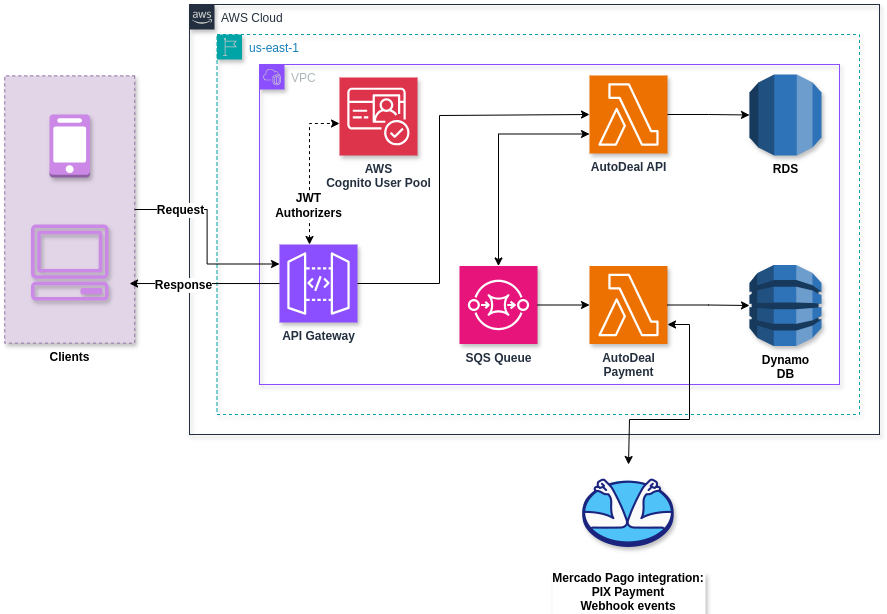
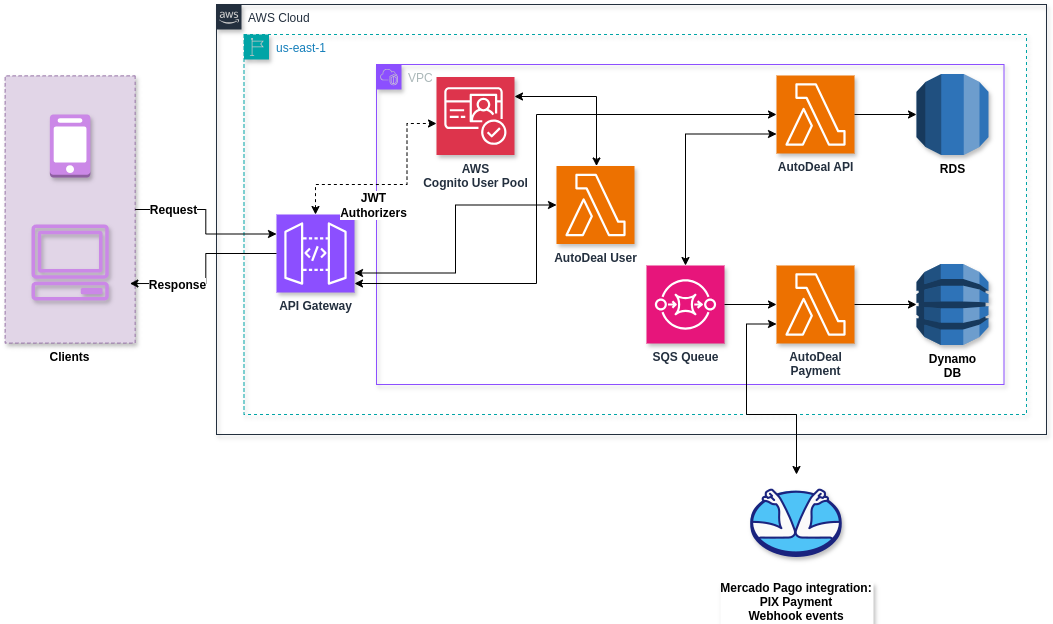
chore: documentation updates

Changed region(s): [[0.0, 0.0, 1.0, 0.7117], [0.6392, 0.7736, 0.8219, 0.8974], [0.6088, 0.9283, 0.8523, 1.0]]

diff --git a/README.md b/README.md
@@ -1,14 +1,15 @@
-[![Deploy CD](https://github.com/auto-deal-cars/auto-deal-api/actions/workflows/deploy.yml/badge.svg)](https://github.com/auto-deal-cars/auto-deal-api/actions/workflows/deploy.yml)
+[![Deploy CD](https://github.com/auto-deal-cars/auto-deal-user/actions/workflows/deploy.yml/badge.svg)](https://github.com/auto-deal-cars/auto-deal-user/actions/workflows/deploy.yml)
 
-# AutoDeal API - Uma solução AWS Lambda com Docker
+# AutoDeal Payment - Uma solução AWS Lambda com Docker
 
 Aluno:
 
 * Pedro Henrique de Marins da Silva - RM348617
 
 ## Lista de Repositórios:
-  - [Repositório AutoDeal API](https://github.com/auto-deal-cars/auto-deal-api)
-  - [Repositório AutoDeal Payment](https://github.com/auto-deal-cars/auto-deal-payment)
+  - [Repositório AutoDeal API](https://github.com/auto-deal-cars/auto-deal-api-p5)
+  - [Repositório AutoDeal Payment](https://github.com/auto-deal-cars/auto-deal-payment-p5)
+  - [Repositório AutoDeal User](https://github.com/auto-deal-cars/auto-deal-user)
 
 ## O Projeto
 
@@ -25,6 +26,9 @@ negócio:
 Este projeto foi gerado com o template `aws-python-docker` do [Serverless framework](https://www.serverless.com/).
 
 Para mais detalhes, por favor, referir para a [documentação](https://www.serverless.com/framework/docs/providers/aws/).
+
+## Evidência do projeto
+Vídeo com evidências do projeto. [Link para o vídeo]
 
 ## Stack do Projeto
 
@@ -101,7 +105,7 @@ A pipeline para deploy do código foi configurada utilizando o GitHub Actions, a
 - **Run Alembic migrations**: Executa as migrações do banco de dados utilizando `alembic upgrade head`.
 - **Set up QEMU**: Configura o QEMU para emulação da arquitetura ARM para realizar o build da imagem Docker, usando a ação `docker/setup-qemu-action@v3`.
 - **Deploy if tests pass**: Se os testes passarem, instala o Serverless Framework e plugins necessários, e realiza o deploy da aplicação utilizando `sls deploy`.
-- **Clean up .env file**: Remove o arquivo `.env` após o deploy ser realizado com sucesso.
+- **Clean up env.json file**: Remove o arquivo `env.json` após o deploy ser realizado com sucesso.
 
 > **Sobre a utilização do QEMU**: O Github Actions não suporta a emulação da arquitetura ARM nativamente, porém, o QEMU permite a emulação da arquitetura ARM para construir a imagem Docker.
 
@@ -112,6 +116,8 @@ A pipeline para deploy do código foi configurada utilizando o GitHub Actions, a
 - **Pull Requests**: Código só pode ser mergeado para a branch `main` através de pull requests.
 - **CI/CD**: A aplicação possui CI/CD através do GitHub Actions, onde o código é buildado e deployado para a AWS Lambda através do Serverless Framework.
 - **Documentação das APIs**: A documentação do projeto foi feita utilizando o Swagger, e está disponível na raiz do projeto, no arquivo `openapi.yml`. Para rodar localmente, utilize o comando `swagger-ui-express --config openapi.yml --port 8080`.
+
+> **Sobre o Swagger**: É recomendado utilizar a documentação do Swagger após o primeiro deploy, pois é necessário configurar o endpoint do API Gateway no Swagger. Os endpoints estão documentados e todas as os possíveis models de request e response estão documentados no Swagger.
 
 ## Arquitetura
 ![Arquitetura da aplicação](./documentation/images/image-4.png)
@@ -125,6 +131,16 @@ A abordagem de arquitetura hexagonal também pode ser utilizada para a criação
   - Condutores: (ou atores primários): Podem ser definidos como atores que iniciam a interação. Por exemplo, um condutor pode ser um controller que recebe um input de um usuário e redireciona a aplicação utilizando uma Port(interface).
   - Conduzidos: (também conhecido como atores secundários): São parte da camada de infrasctructure da aplicação. Podem ser utilizados para adicionar funcionalidades para o domínio da aplicação. Exemplos: Banco de dados, APIs externas.
 
+Também é possível dizer que a aplicação foi implementada seguindo o conceito de Clean Architecture, onde a aplicação é dividida em camadas, e cada camada possui sua responsabilidade. Alguns detalhes sobre os padrões:
+
+- **Application Services**: Camada de serviços da aplicação, responsável por conter a lógica de negócios da aplicação.
+- **Domain**: Camada de domínio da aplicação, responsável por conter as entidades da aplicação.
+- **Infrastructure**: Camada de infraestrutura da aplicação, responsável por conter as portas e adaptadores da aplicação.
+- **Controllers**: Camada de controllers da aplicação, responsável por conter os controllers da aplicação.
+- **Adapters**: Camada de adaptadores da aplicação, responsável por conter os adaptadores da aplicação.
+- **Repositories**: Camada de repositórios da aplicação, responsável pelas operações de banco de dados.
+- **Decorators**: Decorators são utilizados para adicionar funcionalidades aos controllers, neste caso, para adicionar a lógica responsável por validar exceptions e retornar as respostas corretas para o usuário.
+
 ### Padrão SAGA
 ![Padrao SAGA](./documentation/images/image-5.png)
 
@@ -133,6 +149,7 @@ Adicionamente, o padrão SAGA utilizado para essa aplicação é o padrão Coreo
 Para cobrir falhas, a aplicação possui a seguinte estratégia:
   - **Compensação**: Eventos compensatórios para reverter vendas, caso ocorra algum erro.
   - **Chave de idempotência**: Identificador único para garantir que uma transação seja executada apenas uma vez.
+  - ** SQS Queues utilizando padrão FIFO**: Garante a ordem de execução das mensagens, evitando problemas de concorrência. Também garante que uma mensagem seja processada apenas uma vez.
 
 ### Modelo de dados (RDS)
 ![Modelo de dados da aplicação](./documentation/images/image-3.png)
@@ -142,8 +159,9 @@ O modelo de dados do serviço API é um banco de dados relacional, utilizando o 
 - **VehicleBrand**: Tabela que armazena as marcas de veículos.
 - **SoldVehicle**: Tabela que armazena os veículos vendidos.
 - **Enum: StatusEnum**: Tabela que armazena os status dos veículos vendidos. Possíveis valores:
-  - **draft**: Venda inicializada.
-  - **sold**: Venda concluída.
+  - **draft**: Venda inicializada. Veículos com este status são removidos da lista de veículos disponíveis à venda.
+  - **awaiting_pickup**: Aguardando retirada do veículo que já foi vendido.
+  - **sold**: Venda concluída. Não é possível reverter a venda pois o veículo já foi retirado.
 
 #### Estrutura das tabelas
 ##### Vehicle
@@ -182,6 +200,7 @@ O modelo de dados do serviço API é um banco de dados relacional, utilizando o 
 | Valor        | Descrição                        |
 |--------------|----------------------------------|
 | draft        | Venda inicializada               |
+| awaiting_pickup        | Aguardando retirada do veículo que já foi vendido |
 | sold         | Venda concluída                  |
 
 ### Modelo de dados (DynamoDB)
@@ -200,6 +219,11 @@ Abaixo, está a estrutura do modelo de dados do serviço Payment.
 
 ## Rotas
 
+# AutoDeal User
+**POST /user**: cadastro de usuário.
+**POST /login**: login de usuário.
+**DELETE /user**: deletar usuário.
+
 ## AutoDeal API
 
 - **POST /payment**: Criação de um pagamento.
@@ -211,11 +235,71 @@ Abaixo, está a estrutura do modelo de dados do serviço Payment.
 - **GET /vehicles**: Listagem de veículos disponíveis à venda.
 - **GET /vehicles/sold**: Listagem de veículos vendidos.
 - **POST /vehicle/{id}/initialize-sale**: Inicialização da venda de um veículo.
+- **DELETE /vehicle/{id}**: Cancelamento da venda de um veículo que não foi pago.
+- **POST /vehicle/{id}/confirm-pickup**: Confirmação de retirada de um veículo que já foi vendido.
 
 ## AutoDeal Payment
 
 - **POST /webhook**: Recebe notificação de webhook.
 - **GET /payment**: Busca os pagamentos realizados/pendentes.
+
+## Segurança
+
+Estes microsserviços são protegidos boas práticas de segurança, como por exemplo:
+- **Autenticação e autorização**: Protegidos por meio de autenticação e autorização utilizando o JWT Authorizer.
+- **CORS**: Protegidos por meio de CORS para evitar ataques de Cross-Site Request Forgery (CSRF).
+- **Rate Limiting**: Protegidos por meio de rate limiting para evitar ataques de força bruta.
+- **Scopes**: Protegidos por meio de scopes para evitar ataques de Cross-Site Request Forgery (CSRF).
+- **HTTPS**: Protegidos por meio de HTTPS para evitar ataques de man-in-the-middle.
+- **IAM Roles**: Protegidos por meio de IAM Roles. Eles são utilizados principalmente para proteger o serviço de Payment, que utiliza o DynamoDB como banco de dados.
+
+Abaixo, mais detalhes sobre a segurança de cada serviço:
+
+### Dados dos usuários
+
+Os dados dos usuários são armazenados no Cognito User Pool, que é um serviço da AWS que oferece autenticação e autorização para aplicações web. É utilizada a solução de custom attributes para armazenar os dados específicos do usuário, que são gerados para criação do pagamento no método PIX.
+
+Dados que são armazenados no Cognito User Pool:
+- **name**: Nome do usuário.
+- **email**: Email do usuário.
+- **cpf**: CPF do usuário.
+- **accepted_terms**: Se o usuário aceitou os termos de uso da aplicação e aceitou que seus dados serão utilizados para criação do pagamento.
+- **endereço**: Endereço do usuário. Que inclui:
+  - **street**: Rua do usuário.
+  - **number**: Número do usuário.
+  - **city**: Cidade do usuário.
+  - **state**: Estado do usuário.
+  - **zip_code**: CEP do usuário.
+
+#### Implicações da LGPD
+
+Esta aplicação apenas armazena os dados dos usuários no Cognito User Pool, e não armazena os dados em nenhum outro banco de dados. Portanto, não há necessidade de utilizar o serviço de PII (Personal Identifiable Information) da AWS.
+Além disso, a aplicação só permite a criação de usuários que aceitaram os termos de uso da aplicação, incluindo que seus dados serão utilizados para criação do pagamento.
+
+Também é importante destacar que a qualquer momento, o usuário pode solicitar a remoção de seus dados, e a aplicação irá remover os dados do Cognito User Pool.
+
+#### Lista de scopes
+
+Os usuários estão divididos em dois grupos diferentes, que possuem diferentes permissões:
+- **buyer**: Permite a criação de usuários.
+- **admin**: Permite a criação de usuários e acesso a todas as rotas da aplicação.
+
+Os scopes são criados utilizando uma solução chamada `Pre Token Generation Lambda`, uma solução da AWS que permite a criação de scopes dinamicamente. Essa solução permite o seguinte:
+Antes da criação do token, a aplicação verifica se o usuário possui o scope `admin` ou `buyer`, e adiciona scopes automaticamente ao access token.
+
+Esse processo é feito utilizando uma função Lambda, que é configurada no Cognito User Pool.
+
+Lista de scopes:
+- **delete:user**: Permite remover o usuário (apenas admin podem utilizar, recurso utilizado para apagar usuários e seus dados).
+- **create:vehicle**: Permite a criação de veículos. (apenas admin podem utilizar)
+- **update:vehicle**: Permite a atualização de veículos. (apenas admin podem utilizar)
+- **delete:vehicle**: Permite a remoção de veículos. (apenas admin podem utilizar)
+- **get:vehicle**: Permite a leitura de veículos.
+- **list:available**: Permite a listagem de veículos disponíveis à venda.
+- **list:sold**: Permite a listagem de veículos vendidos. (apenas admin podem utilizar)
+- **initialize:sale**: Permite a inicialização da venda de um veículo.
+- **cancel:sale**: Permite o cancelamento da venda de um veículo.
+- **pick:sale**: Permite a confirmação de retirada de um veículo que já foi vendido.
 
 ## Como rodar o projeto
 
@@ -234,21 +318,12 @@ Além disso, alguns serviços da AWS são necessários para o funcionamento da a
 - AWS API Gateway (são criados no serverless.yml)
 - AWS SQS (São criados no serverless.yml)
 - AWS DynamoDB (São criados no serverless.yml)
-- AWS RDS
-- AWS Cognito
+- AWS RDS (São criados no serverless.yml)
+- AWS Cognito (São criados no serverless.yml)
+- Conta do Mercado Pago
 
-Atenção importante para os params ao rodar o comando `sls deploy`, eles são:
+> **Sobre resources criadas com o Serverless Framework**: Os recursos criados pelo Serverless Framework são criados na conta da AWS que está configurada no AWS CLI. Serverless Framework cria os recursos utilizando templates do CloudFormation.
 
-AutoDeal API:
-- `initializePaymentQueueArn` - Arn da fila do SQS que inicializa o pagamento
-- `initializePaymentQueueUrl` - URL da fila do SQS que inicializa o pagamento
-- `audienceIssuerUrl` - URL do issuer do Cognito User Pool
-- `audienceClientId` - ID do client do Cognito User Pool
-
-AutoDeal Payment
-- `failedPaymentQueueArn` - Arn da fila do SQS que armazena as vendas que não concluíram o pagamento
-- `successPaymentQueueUrl` - URL da fila do SQS que armazena as vendas que concluíram o pagamento
-- `audienceIssuerUrl` - URL do issuer do Cognito User Pool
-- `audienceClientId` - ID do client do Cognito User Pool
+Atenção importante preencher o arquivo env.json com as variáveis de ambiente necessárias para o funcionamento da aplicação. Existe um arquivo `.env.example` que pode ser utilizado como referência.
 
 Após clonar o repositório, utilize o comando `npm install` para instalar as dependências do projeto, e `sls deploy` para rodar o projeto, sem esquecer de passar os params no comando.
